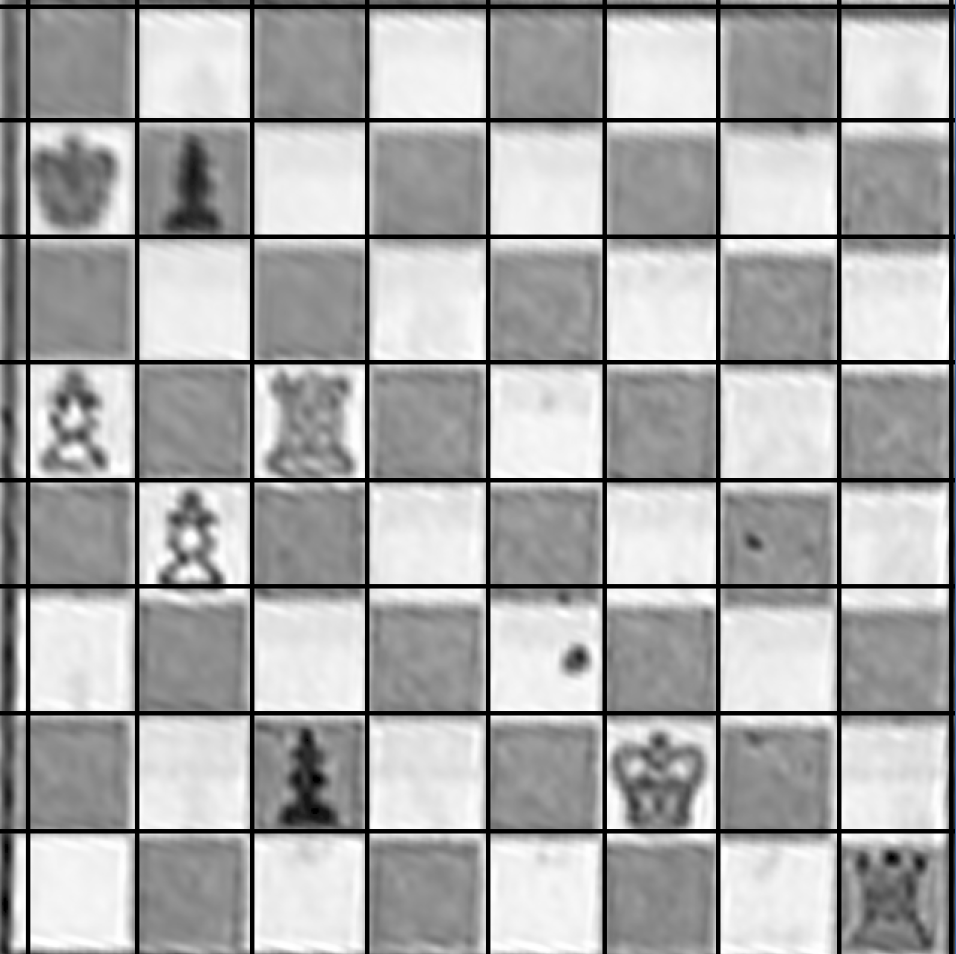
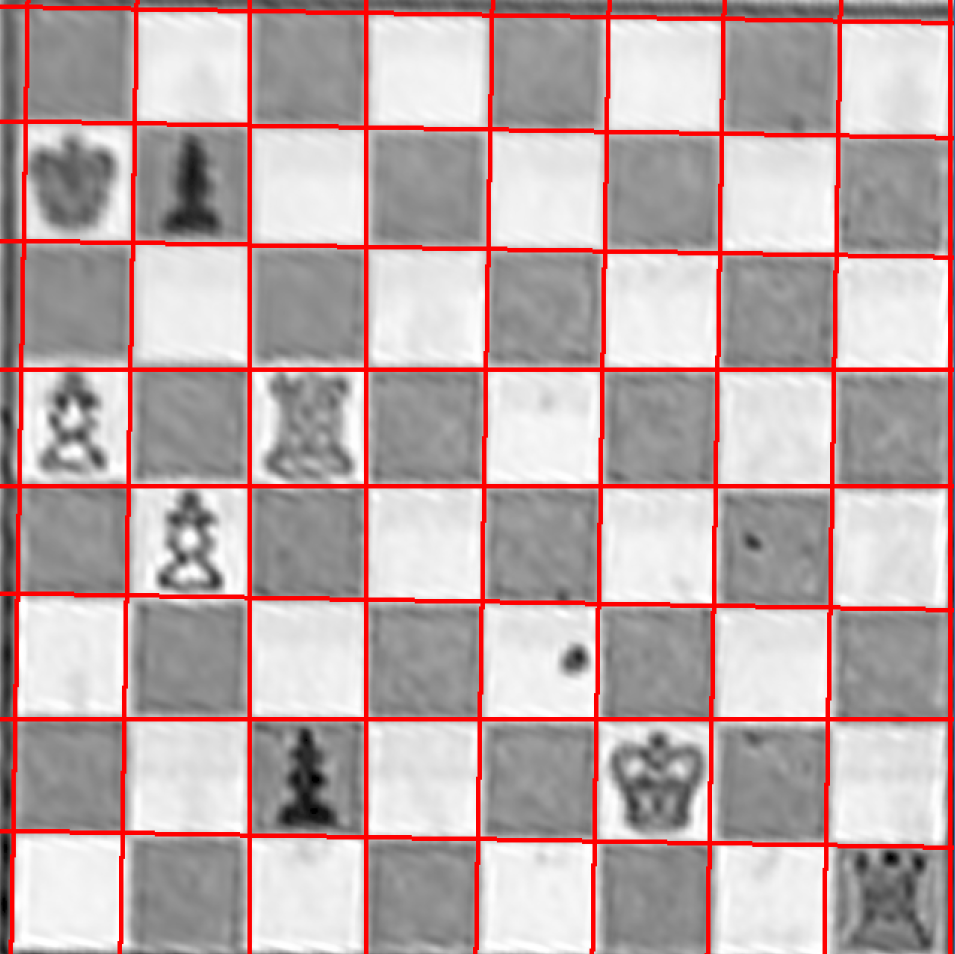
Improved grid extraction

Changed region(s): [[0.0, 0.0, 1.0, 1.0]]

diff --git a/src/grid.py b/src/grid.py
@@ -17,56 +17,71 @@ gridWidth = 640
 gridHeight = 640
 closeLineThreshold = 40
 
-def point(rho, theta):
-    a = np.cos(theta)
-    b = np.sin(theta)
-    x0 = a * rho
-    y0 = b * rho
-    x1 = int(x0 + 1000 * (-b))
-    y1 = int(y0 + 1000 * a)
-    x2 = int(x0 - 1000 * (-b))
-    y2 = int(y0 - 1000 * a)
-    return [(x1, y1), (x2, y2)]
+class Line:
+    def __init__(self, rho, theta):
+        self.rho = rho
+        self.theta = theta
+        self.cos_factor = np.cos(theta)
+        self.sin_factor = np.sin(theta)
+        self.center = (self.cos_factor * rho, self.sin_factor * rho)
 
-def horizontal(theta):
-    return abs(np.cos(theta)) < np.cos(np.pi / 4)
 
-def vertical(theta):
-    return not horizontal(theta)
+    def getSegment(self, lenLeft, lenRight):
+        a = self.cos_factor
+        b = self.sin_factor
+        (x0, y0) = self.center
+
+        x1 = int(x0 + lenRight * (-b))
+        y1 = int(y0 + lenRight * a)
+        x2 = int(x0 - lenLeft * (-b))
+        y2 = int(y0 - lenLeft  * a)
+        return ((x1, y1), (x2, y2))
+
+    def isHorizontal(self, thresholdAngle=np.pi / 4):
+        return abs(np.cos(self.theta)) < np.cos(thresholdAngle)
+
+    def isVertical(self, thresholdAngle=np.pi / 4):
+        return abs(np.sin(self.theta)) < np.cos(thresholdAngle)
+
+    def draw(self, image, color=(0,0,255)):
+        p1,p2 = self.getSegment(1000,1000)
+        cv2.line(image, p1, p2, color, 2)
+
 
 def partitionLines(lines):
-    def map1(x):
-        ((x1, y1), (x2, y2)) = point(x[0], x[1])
-        return (x1 + x2) / 2
-    def map2(x):
-        ((x1, y1), (x2, y2)) = point(x[0], x[1])
-        return (y1 + y2) / 2
+    h = filter(lambda x: x.isHorizontal(), lines)
+    v = filter(lambda x: x.isVertical(), lines)
 
-    v = map(map1, filter(lambda x: vertical(x[1]), lines))
-    v.sort()
-    h = map(map2, filter(lambda x: horizontal(x[1]), lines))
+    h = [(l.center[1], l) for l in h]
+    v = [(l.center[0], l) for l in v]
+
     h.sort()
+    v.sort()
+
+    h = [l[1] for l in h]
+    v = [l[1] for l in v]
 
     return (v, h)
 
-def filterCloseLines(lines, threshold = closeLineThreshold):
+def filterCloseLines(lines, horizontal=True, threshold = closeLineThreshold):
+    if horizontal:
+        item = 1
+    else:
+        item = 0
+
     i = 0
     ret = []
     while i < len(lines):
         itmp = i
-        cnt = 0
-        while i < len(lines) and (lines[i] - lines[itmp] < threshold):
-            cnt += lines[i]
+        while i < len(lines) and (lines[i].center[item] - lines[itmp].center[item] < threshold):
             i += 1
-        ret.append(cnt / (i - itmp))
-
+        target = int(itmp + ((i-itmp) / 2))
+        ret.append(lines[target])
     return ret
 
-def drawLines(image, horizontal, vertical):
-    for x in vertical:
-        cv2.line(image, (x, 0), (x, 1000), (0, 0, 255), 2)
-    for y in horizontal:
-        cv2.line(image, (0, y), (1000, y), (0, 0, 255), 2)
+def drawLines(image, lines):
+    for l in lines:
+        l.draw(image)
 
 def grid(filename):
     im_gray = cv2.imread(filename, cv2.CV_LOAD_IMAGE_GRAYSCALE)
@@ -81,15 +96,16 @@ def grid(filename):
         if lines is None:
             continue
 
-        lines = lines[0]
+        lines = [Line(l[0], l[1]) for l in lines[0]]
         (vertical, horizontal) = partitionLines(lines)
-        vertical = filterCloseLines(vertical)
-        horizontal = filterCloseLines(horizontal)
+        vertical = filterCloseLines(vertical, horizontal=False)
+        horizontal = filterCloseLines(horizontal, horizontal=True)
 
         if len(vertical) >= 8 and len(horizontal) >= 8: break
 
-    bgr = resized_im
-    drawLines(bgr, horizontal, vertical)
+    bgr = cv2.cvtColor(resized_im, cv2.COLOR_GRAY2BGR)
+    drawLines(bgr, horizontal)
+    drawLines(bgr, vertical)
 
     cv2.namedWindow('image', cv2.WINDOW_NORMAL)
     cv2.imshow('image', bgr)
